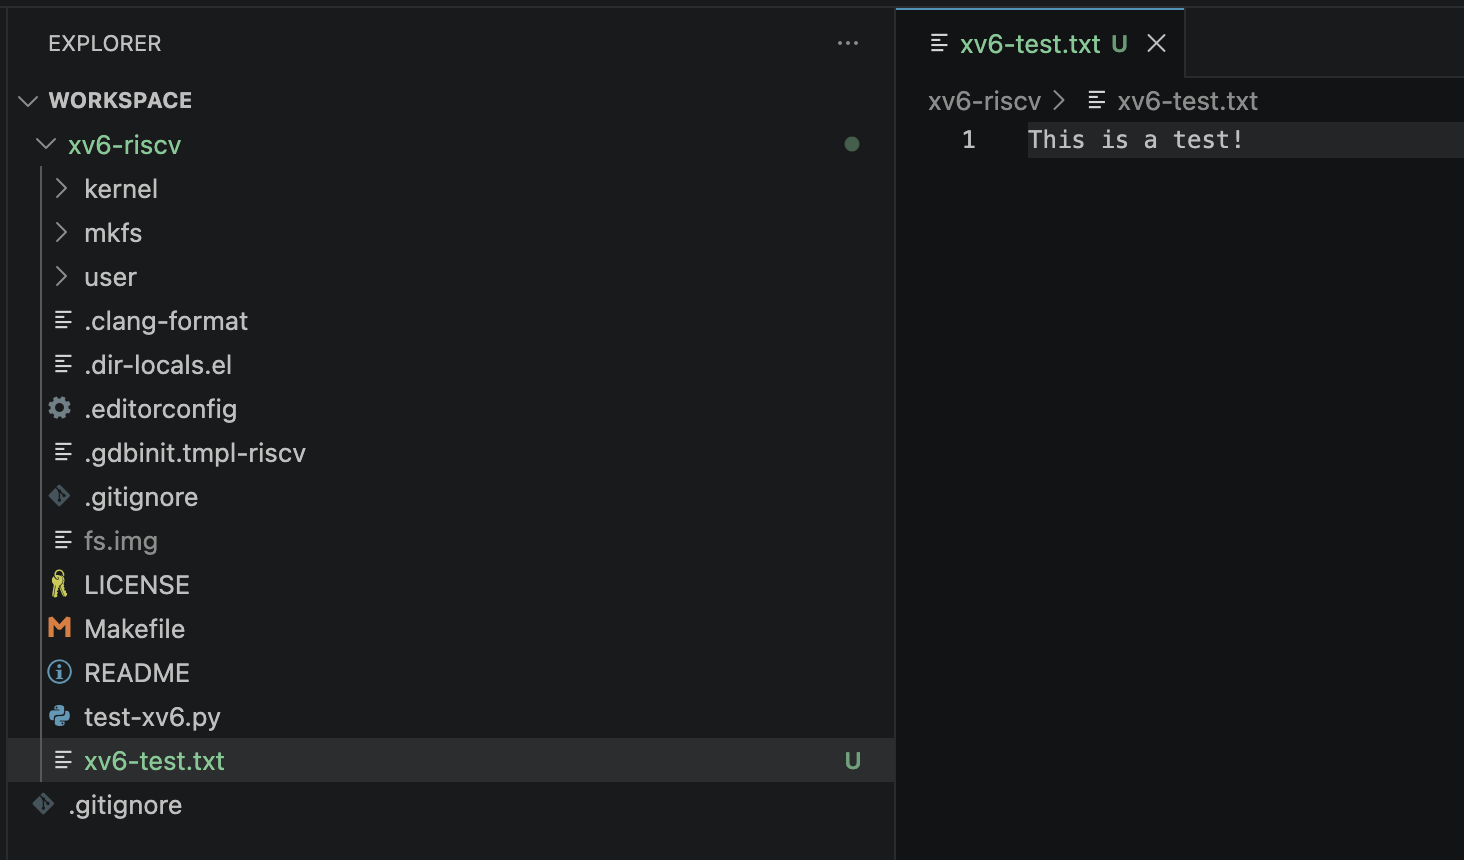
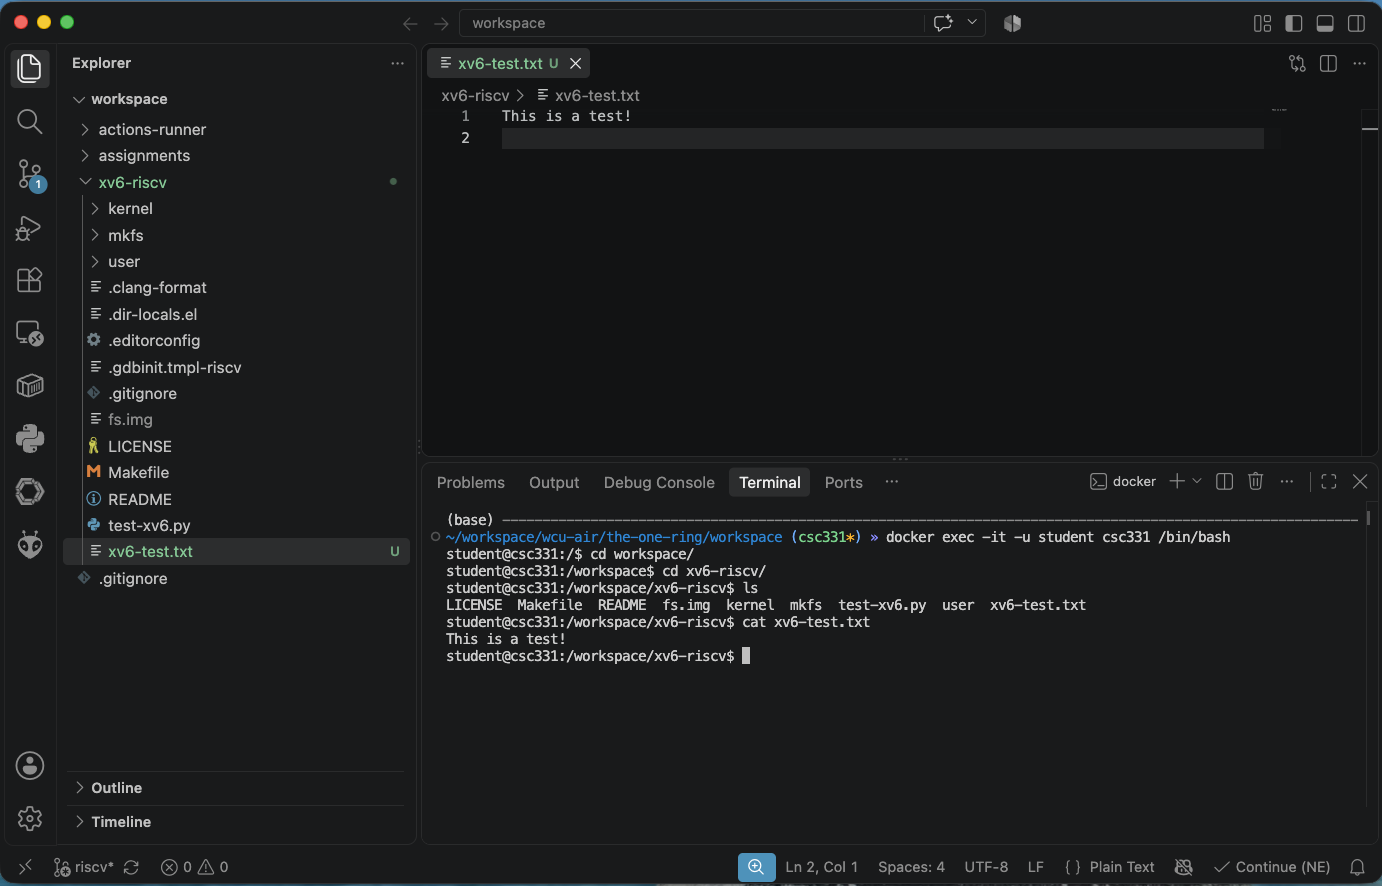
update process xv6 lecture

diff --git a/_csc331/05-process-xv6.md b/_csc331/05-process-xv6.md
@@ -4,6 +4,7 @@ pretty_table: true
 collection: csc331
 
 title: "Process in xv6"
+
 toc:
   - name: Editing files in xv6
   - name: How does fork() behave in xv6?
@@ -13,13 +14,17 @@ toc:
 
 ## Editing files in xv6
 
-Since the `csc331` container mounts the `workspace` directory on the host machine into `/workspace`, you are able to edit the files directly from the host machine via an IDE. The screenshot belows show a VSCode IDE session into the host machine's `workspace` folder and editing a file called `xv6-test.txt`. 
+Since the `csc331` container mounts the `workspace` directory on the host machine into `/workspace`, you are able to edit contents directly from the host machine via an IDE. The screenshot belows show a VSCode IDE session into the `xv6-riscv` repo that had been cloned into the host machine's `workspace` folder and editing a file called `xv6-test.txt`. 
 
-{% details Screenshot: Open workspace folder with VSCode on host machine %}
+{% details warning Do not open git repository of parent folder %}
 
-{% include figure.liquid path="assets/img/courses/csc331/process-xv6/vscode-workspace.png" max-width="50%" zoomable=true %}   
+{% include figure.liquid path="assets/img/courses/csc331/process-xv6/parent-git-warn.png" max-width="50%" zoomable=true %}   
 
 {% enddetails %}
+
+You can also leverage the `Terminal` space of VSCode to `docker exec` into the container and test your code modifications. 
+
+{% include figure.liquid path="assets/img/courses/csc331/process-xv6/vscode-workspace.png" max-width="50%" zoomable=true %}   
 
 This file also shows up inside the `csc331` container. 
 
